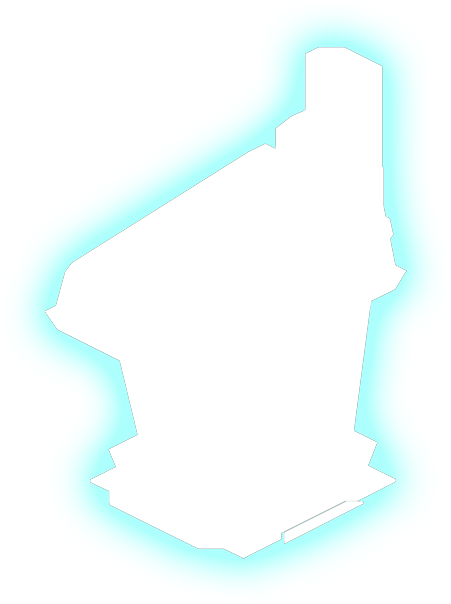
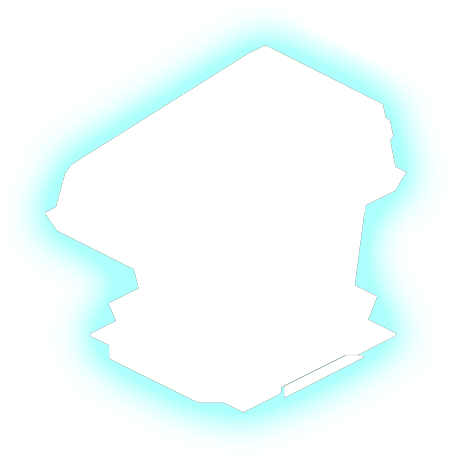
slot-machine + 2 state

Changed region(s): [[0.0621, 0.0306, 0.9313, 0.9476]]

diff --git a/src/buildings/config.ts b/src/buildings/config.ts
@@ -81,6 +81,10 @@ import partnerYellowLevel1Img from './partners-build/partner-yellow/1.png';
 import partnerYellowLevel1Stroke from './partners-build/partner-yellow/1-stroke.png';
 import slotMachineLevel1Img from './slot-machine/1.png';
 import slotMachineLevel1Stroke from './slot-machine/1-stroke.png';
+import slotMachineLevel2Img from './slot-machine/2.png';
+import slotMachineLevel2Stroke from './slot-machine/2-stroke.png';
+import slotMachineLevel3Img from './slot-machine/3.png';
+import slotMachineLevel3Stroke from './slot-machine/3-stroke.png';
 import routerLevel1Img from './router/1.png';
 import routerLevel1Stroke from './router/1-stroke.png';
 import autoFactoryLevel1Img from './auto-factory/1.png';
@@ -676,32 +680,30 @@ export class BuildingsService {
       title: 'МТС Игротека',
       coords: [5415, 2871],
       zIndex: ZIndexes.BUILDING_TWO_LEVEL,
-      maxLevel: TowerLevel.low,
+      maxLevel: TowerLevel.high,
       [TowerLevel.low]: {
         img: slotMachineLevel1Img,
         width: 451,
-        height: 604,
+        height: 458,
         shadowImg: slotMachineLevel1Stroke,
         areaCoords: '392,148,101,545',
-        position: [43.6, 66.7],
+        position: [46, 67],
       },
-      // TODO: не настоящая картинка
       [TowerLevel.mid]: {
-        img: bankLevel2Img,
-        width: 579,
-        height: 688,
-        shadowImg: bankLevel2Stroke,
-        areaCoords: '516,39,69,578',
-        position: [23.4, 66.4],
+        img: slotMachineLevel2Img,
+        width: 451,
+        height: 507,
+        shadowImg: slotMachineLevel2Stroke,
+        areaCoords: '49,38,394,458',
+        position: [45.1, 67.1],
       },
-      // TODO: не настоящая картинка
       [TowerLevel.high]: {
-        img: airportLevel3Img,
-        width: 573,
-        height: 449,
-        shadowImg: airportLevel3Stroke,
-        areaCoords: '595,126,90,476',
-        position: [18.9, 28.3],
+        img: slotMachineLevel3Img,
+        width: 451,
+        height: 604,
+        shadowImg: slotMachineLevel3Stroke,
+        areaCoords: '53,43,399,558',
+        position: [43.3, 66.99],
       },
     },
     [TowersTypes.ROUTER]: {
